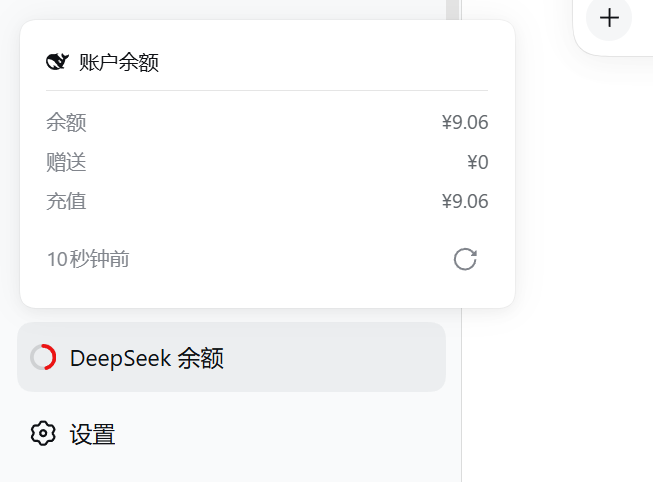
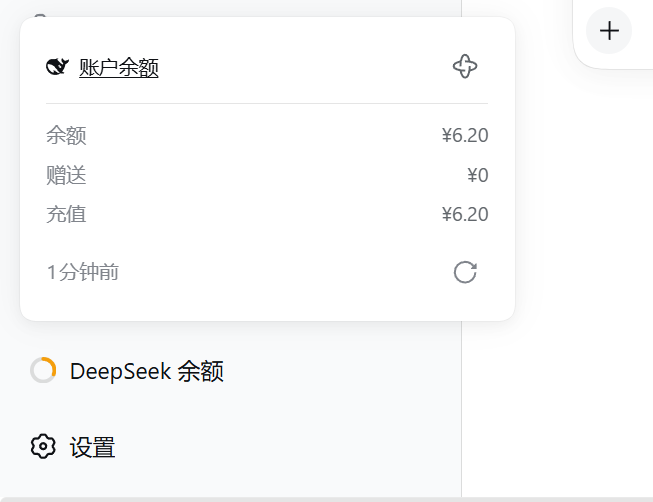
重拍门面截图 + 拍摄判据改「正常态」口径 + 感叹号墨迹补偿取中英折中
- sidebar-popover{,_en}.png 与 settings-card{,_en}.png 四张重拍：浮层标题行现在是
  「左外链 + 右 Plugins 图标」、币种不匹配段按新设计只剩一个按钮（正常态下不渲染）；
  设置卡片按新默认（四组收起）逐个点开组头后拍；列表那两张判为未过期未动
- 拍摄判据统一为「门面图一律在正常态（币种匹配）下拍」，「不匹配段只有一个按钮」
  降为补拍时的条件判据；并修掉判据自相矛盾 —— AGENTS 写「图里没有真实余额」而
  README 写「余额是真实值、别 P 图」，以后者为准
- .marker 的墨迹补偿 1.5px → 1.63px：两种标签差 0.75px，单一补偿值取中点，
  中英残差各 0.375px；原值让英文贴到 0.5px 判据边上（独立复核指出，余量仅 0.06px）
- 已知限制入档：宿主没有到某个 bundle 详情页的深链入口（selectPanel 不带参数、
  页面视图是内部 state、无路由），所以浮层右上角图标只到 Plugins 面板；
  触发条件与证据写在 sidebar 手册，待办里挂了条件式条目

npm test 322 passed。

diff --git a/src/client/sidebar/SidebarBalance.module.css b/src/client/sidebar/SidebarBalance.module.css
@@ -117,8 +117,10 @@
        · 图标墨迹中心 = 它盒子的几何中心（0.000px 偏差，该字形的图形在它 viewBox 里本来就是居中的）；
        · 文字墨迹中心比它 22px 行盒的中心低：中文标签 +1.25px、英文标签 +2.00px
          （两个标签都带 'p' 的下伸部，中文多一个上伸到位的字头，所以中文那侧反而更高一点）。
-     于是「图标看着偏高」。只补这一格 1.5px：两种标签的残差分别是 0.25px 与 0.50px，都在 0.5px 判据内；
+     于是「图标看着偏高」。补偿取两种标签的中点 1.63px：两侧残差都落到 0.375px，各留 0.125px 余量；
+     早先取 1.5px 时英文残差 0.44~0.50px 贴着 0.5px 判据（独立复核指出），换字体或字号就会越界。
+     两种标签差 0.75px，单一补偿值的最优解就是中点 —— 想再小只能按语言给两套值，不值得。
      不动 .label、不动行高 —— 那会改到整行几何与邻居。 */
   position: relative;
-  top: 1.5px;
+  top: 1.63px;
 }

diff --git a/src/client/sidebar/README.md b/src/client/sidebar/README.md
@@ -39,8 +39,9 @@
 - 关键导出：`BalancePopover`、`BalancePopoverProps`（除 `configSlotWarning` 外，还有 `useShownDisabled` 与 `onOpenPlugins`；`onOpenSettings` 已随「去设置」一起删除）、`BALANCE_PLACEHOLDER`。
 - `configSlotWarning` 非 null 时复用既有的 `notice` / `noticeText` 渲染一行英文 `[WARN]`（无动作按钮、无新增样式）。
 - 标题行是外链：`https://platform.deepseek.com/usage`，`target="_blank"` + `rel="noopener noreferrer"`，新标签页打开官网用量页；文字带下划线但**颜色 `inherit`**（宿主没有「链接色」这类语义 token，硬套会破配色纪律），图标是 svg、不吃 `text-decoration`。
-- **标题行右端的 Plugins 图标按钮**：无可见文字，`aria-label` 走词典；图标 `IconPluginPinwheelOutline16` 与宿主侧栏 Plugins 条目同字形，样式逐值照抄宿主 `.iconButton`（28×28、全圆角**成对写** `corner-shape: round`、hover 用 `--dsw-alias-interactive-bg-hover`），并显式 `cursor: pointer`（浮层面板自己写了 `cursor: default`）。点它把主区切到 Plugins 面板并**关闭浮层**。
+- **标题行右端的 Plugins 图标按钮**：无可见文字，`aria-label` 走词典；图标 `IconPluginPinwheelOutline16` 与宿主侧栏 Plugins 条目同字形，样式逐值照抄宿主 `.iconButton`（28×28、全圆角**成对写** `corner-shape: round`、hover 用 `--dsw-alias-interactive-bg-hover`），并显式 `cursor: pointer`（浮层面板自己写了 `cursor: default`）。点它把主区切到 Plugins **面板（列表页）**并**关闭浮层**。
   导航入口是宿主的跨插件服务 `ctx.layout.selectPanel('plugins')`（**用字面量 `'plugins'`，不 import 别的 feature plugin 的值导出**）；**服务缺席时整块不渲染**（不留死按钮），`selectPanel` 抛错有具名 catch（profile 未装 plugin-manager 时那个面板不存在）。
+  落点到此为止：**只能到 Plugins 面板（列表页），到不了本插件的 bundle 详情页** —— 宿主当前没有任何公开深链入口：`ILayout.selectPanel(panelId)` 不带参数（`ui-layout/src/client/service.ts:28-52`）、layout store 只有 `activePanelId`、插件页视图是 ui-plugin-manager 组件内部的 `useState({ kind: 'list' })`、全仓没有 URL 路由。**这是宿主的缺口，不是本插件的缺陷，也不在插件侧另造页面**；宿主将来给出入口（`selectPanel` 带参数，或 ui-plugin-manager 暴露 `openBundle(name)` 之类的客户端服务）再把落点补深。
 - 被谁依赖：`SidebarBalance.tsx`，经 `createPortal` 挂到 `document.body`。
 - 改后必测什么：面板 `role="dialog"` 与 `aria-label` 仍在；三行金额与时间文案随场景变化；刷新按钮的进行中与冷却两态；点浮层内部不关闭浮层；点标题确认新标签页打开官网用量页、当前页不跳转、浮层不关、文字颜色与改动前一致；点右上角图标确认切到 Plugins 面板且浮层关闭、宿主无 `layout` 服务时该图标不出现、币种不匹配那段只有一个按钮。
 

diff --git a/assets/AGENTS.md b/assets/AGENTS.md
@@ -21,9 +21,10 @@
   配置表单自身的判据（页面画的插件标题 / 描述 / 版本、四组组名、字段与保存按钮）归 `settings-card*.png`。
 - **左边栏那张另有判据**：[SidebarBalance.tsx](../src/client/sidebar/SidebarBalance.tsx) 的行结构（含**展开态悬浮出的余额气泡**）、
   [BalancePopover.tsx](../src/client/sidebar/BalancePopover.tsx) 的三行与状态行、**标题行右端的 Plugins 图标按钮**、
-  币种不匹配那段**只剩一个**「改用 X」按钮（「去设置」已删），
   以及 [PercentRing.tsx](../src/client/sidebar/PercentRing.tsx) 的**弧长与中心符号** ——
   弧长现在表达比例，余额一变图就变，这是它的正常状态。
+  **门面图一律在正常态（币种匹配）下拍**：浮层里没有币种不匹配段、条目上没有感叹号标记；
+  若某次确实要在不匹配态下补拍，那一段必须只有一个「改用 X」按钮（出现第二个按钮＝旧版，「去设置」已删）。
 
 不必重截：
 
@@ -113,7 +114,7 @@
 - 出现折叠头、「放弃」按钮或卡片外框，说明拍的是旧界面
 - **整屏 / 宽幅图里左侧栏是收起态**（`sidebar-popover*.png` 两张例外，那里改为裁掉标题段）：看不到会话标题、工作区名或对话内容
 - **侧栏是动画中间帧 / 宽度不固定 → 判废重拍**；浮层、折叠区也要等几何稳定，别拿弹出中途的帧凑数（判据见第 4 步的轮询）
-- 左边栏那两张：浮层标题行右端有 Plugins 图标（**宿主缺 `layout` 服务时它本就不渲染**，缺席是正常的）、币种不匹配那段只有一个按钮、悬浮气泡不与该浮层同框
+- 左边栏那两张：**正常态（币种匹配）下拍** —— 浮层里没有币种不匹配段、条目上没有感叹号标记（若确在不匹配态补拍，那一段必须只有一个「改用 X」按钮）、悬浮气泡不与该浮层同框、浮层标题行右端有 Plugins 图标（**宿主缺 `layout` 服务时它本就不渲染**，缺席是正常的）
 - 说明文案与当前 [locales.ts](../src/client/locales.ts) **逐字一致**
-- 图里没有真实凭据、真实余额、真实 Base URL
+- 图里没有真实凭据、真实 Base URL；**余额除外** —— 左边栏那张必然带真实余额，它是真实值、会随时间变，见 [README.md](README.md) 的「其余」
 - 文件确实被 [README.md](../README.md) 与 [README_en.md](../README_en.md) 引用（覆盖后跑一次链接校验）

diff --git a/assets/README.md b/assets/README.md
@@ -34,7 +34,7 @@
 **它是上面那条规则的唯一例外**（主体就是侧栏本身，收了就没了）：隐私改由裁剪切掉 —— **取景顶端一律压在浮层 / 底部条目那一叠的上沿**，把上方的工作区名与会话标题整段剔出画面。
 **隐私优先于输入框** —— 宁可不要输入框，也不能露标题；因此这张常常没有输入框，那是接受的代价。
 浮层弹出同样是动画：先轮询到几何稳定（判据同 [AGENTS.md](AGENTS.md) 第 4 步）再按快门。
-币种不匹配那段**只有一个按钮**（「改用 X」；「去设置」已删）；标题行右端缺 Plugins 图标、或那段出现第二个按钮，都说明拍的是旧版 —— 例外是宿主没有 `layout` 服务时那个图标本就不渲染。
+**门面图一律在正常态（币种匹配）下拍**：浮层里没有币种不匹配段、条目上没有感叹号标记；若某次确实要在不匹配态下补拍，那一段必须只有一个「改用 X」按钮（出现第二个按钮＝旧版，「去设置」已删）。标题行右端缺 Plugins 图标同样说明拍的是旧版 —— 例外是宿主没有 `layout` 服务时那个图标本就不渲染。
 **边缘是：看得出在左下角，但不拍整屏。**
 
 **隐私是硬要求**：拍左边栏那张之前**必须开一个新会话**（[AGENTS.md](AGENTS.md) 第 2 步）。

diff --git a/AGENTS.md b/AGENTS.md
@@ -73,6 +73,7 @@
 - [x] 两张设置卡片截图已从真实界面实拍（中英各一张）→ 重截判据见 [assets/AGENTS.md](assets/AGENTS.md)
 - [x] 首次发布的手动配置：npm Trusted Publisher 已配、仓库 secret `DSH_CI_API_KEY` 已在、`v1.0.0` tag 与 Release 已建
 - [x] `release` environment 已由 release.yml 首次运行自动创建；想挂人工审批再加规则 → [发布手册](docs/PUBLISHING.md)
+- [ ] **等宿主给出面板深链入口**（`selectPanel` 带参数，或 ui-plugin-manager 暴露 `openBundle(name)` 之类的客户端服务）后，把浮层右上角图标的落点从 Plugins 列表补到本插件的 bundle 详情页 —— 现状、证据与触发条件见 [sidebar 手册](src/client/sidebar/README.md)，在此之前不在插件侧另造页面
 
 ## 活跃坑
 

diff --git a/docs/ARCHITECTURE.md b/docs/ARCHITECTURE.md
@@ -102,3 +102,4 @@
 ## 阶段边界
 
 - 不做：Estimation（账本 / 投影 / 手工校正）、诊断层、独立页面、图表、多厂商模板、SSE。
+- **不做（宿主还没给这条缝）**：到某个 bundle 详情页的深链。浮层右上角图标只落在 Plugins 面板（列表页）—— 宿主没有公开的面板深链入口，等它给出（`selectPanel` 带参数或 `openBundle(name)` 一类的客户端服务）再补深；不在插件侧另造页面。现状与证据 → [../src/client/sidebar/README.md](../src/client/sidebar/README.md)。
